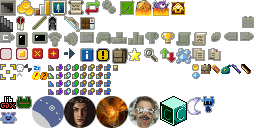
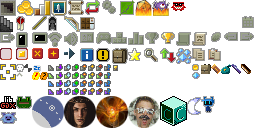
Combusted v0.24.7
Fixed the about section to credit NYRDS instead of quasistellar.

Changed region(s): [[0.6562, 0.0, 0.75, 0.125]]

diff --git a/core/src/main/java/com/shatteredpixel/shatteredpixeldungeon/scenes/AboutScene.java b/core/src/main/java/com/shatteredpixel/shatteredpixeldungeon/scenes/AboutScene.java
@@ -92,18 +92,18 @@ public class AboutScene extends PixelScene {
 		//insp.hardlight(CBPX_COLOR);
 		content.add(insp);
 
-		CreditsBlock rrpx = new CreditsBlock(true, Window.TITLE_COLOR,
-				"Re-Remixed Pixel Dungeon",
-				Icons.RRPX.get(),
-				"Developed by: _QuasiStellar_\nBased on ShatteredPD's open source",//\nInspired by Remixed Dungeon by Nyrds
-				"quasistellar.org",
-				"https://quasistellar.neocities.org/");
+		CreditsBlock rpx = new CreditsBlock(true, Window.TITLE_COLOR,
+				"Remixed Pixel Dungeon",
+				Icons.RPX.get(),
+				"Developed by: _NYRDS_\nBased on Pixel Dungeon's open source",//\nInspired by Remixed Dungeon by Nyrds
+				"wiki.nyrds.net",
+				"http://wiki.nyrds.net/");
 		if (landscape()){
-			rrpx.setRect((w - fullWidth)/2f - 6, insp.bottom()+4, 120, 0);
+			rpx.setRect((w - fullWidth)/2f - 6, insp.bottom()+4, 120, 0);
 		} else {
-			rrpx.setRect((w - fullWidth)/2f, insp.bottom()+4, 120, 0);
+			rpx.setRect((w - fullWidth)/2f, insp.bottom()+4, 120, 0);
 		}
-		content.add(rrpx);
+		content.add(rpx);
 
 		CreditsBlock supx = new CreditsBlock(true, Window.TITLE_COLOR,
 				"Summoning Pixel Dungeon",
@@ -112,11 +112,11 @@ public class AboutScene extends PixelScene {
 				"reddit: u/TrashboxBobylev",
 				"https://reddit.com/u/TrashboxBobylev");
 		if (landscape()){
-			supx.setRect(rrpx.right(), rrpx.top(), 120, 0);
+			supx.setRect(rpx.right(), rpx.top(), 120, 0);
 			content.add(supx);
 			addLine(supx.bottom() + 13, content);
 		} else {
-			supx.setRect((w - fullWidth)/2f, rrpx.bottom()+8, 120, 0);
+			supx.setRect((w - fullWidth)/2f, rpx.bottom()+8, 120, 0);
 			content.add(supx);
 			addLine(supx.bottom() + 4, content);
 		}
@@ -136,7 +136,7 @@ public class AboutScene extends PixelScene {
 				"ShatteredPixel.com",
 				shpxLink);
 		if (landscape()){
-			shpx.setRect((w - fullWidth)/2f - 6, rrpx.bottom()+8, 120, 0);
+			shpx.setRect((w - fullWidth)/2f - 6, rpx.bottom()+16, 120, 0);
 		} else {
 			shpx.setRect((w - fullWidth)/2f, supx.bottom()+8, 120, 0);
 		}

diff --git a/core/src/main/java/com/shatteredpixel/shatteredpixeldungeon/ui/Icons.java b/core/src/main/java/com/shatteredpixel/shatteredpixeldungeon/ui/Icons.java
@@ -40,7 +40,7 @@ public enum Icons {
 	PREFS,
 	SHPX,
 	CBPX,
-	RRPX,
+	RPX,
 
 	//rankings and hero select icons, spacing for 16x16
 	STAIRS,
@@ -157,8 +157,8 @@ public enum Icons {
 			case CBPX:
 				icon.frame( icon.texture.uvRectBySize( 152, 0, 18, 16 ) );
 				break;
-			case RRPX:
-				icon.frame( icon.texture.uvRectBySize( 170, 0, 16, 16 ) );
+			case RPX:
+				icon.frame( icon.texture.uvRectBySize( 170, 0, 17, 13 ) );
 				break;
 
 			case STAIRS:
